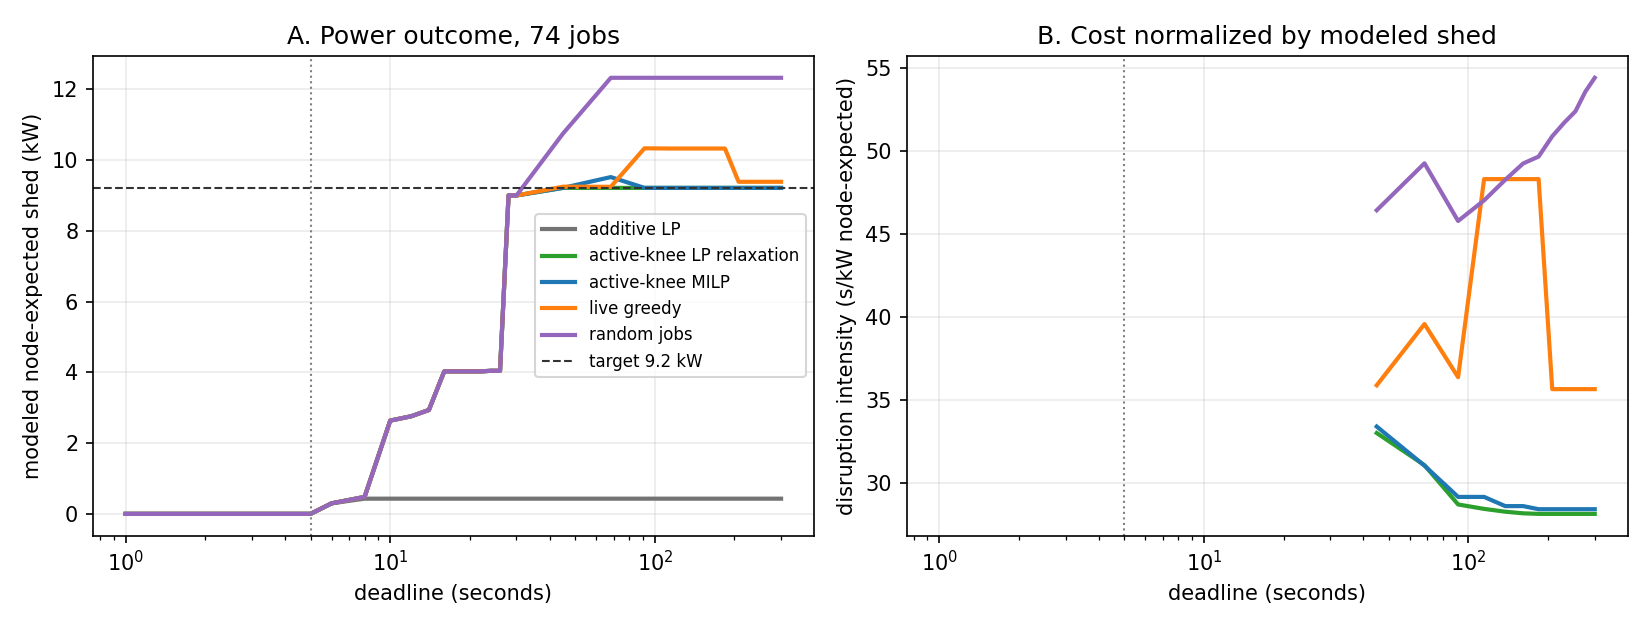
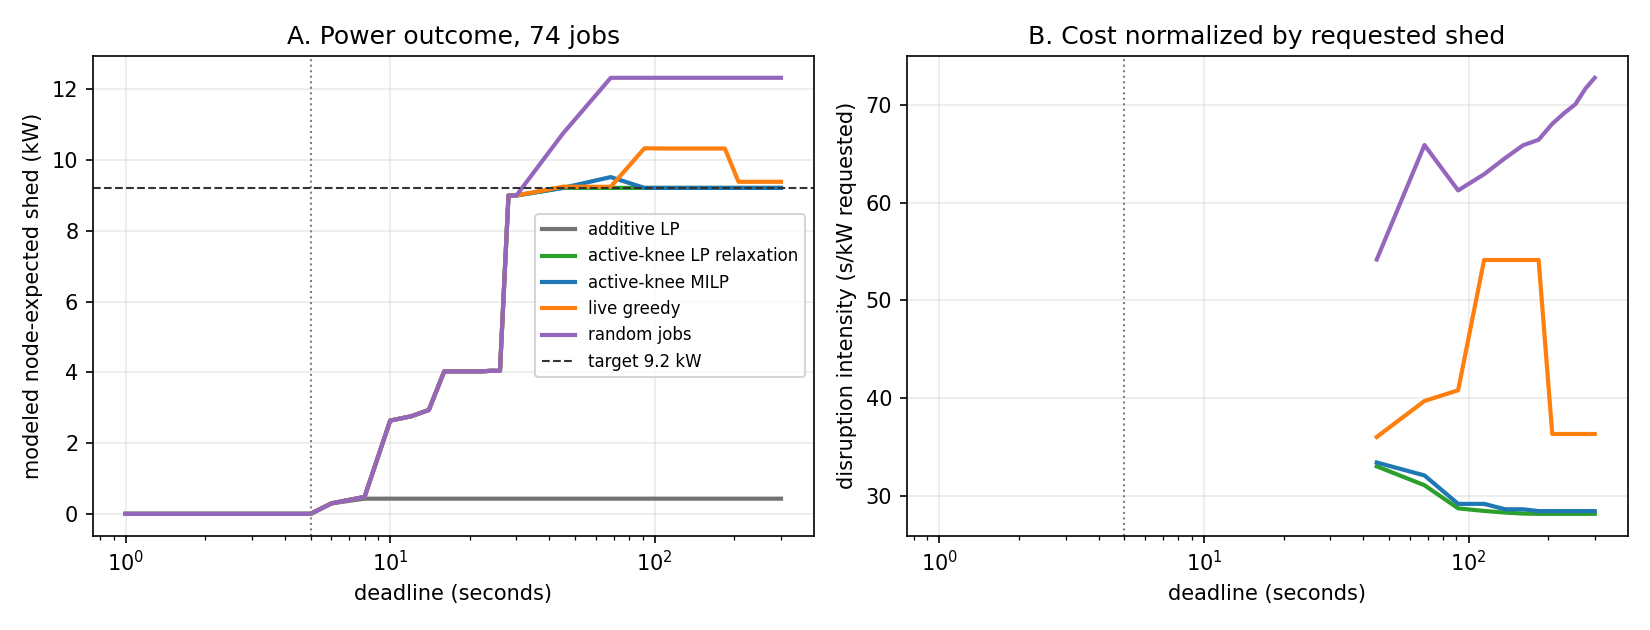
Normalize deadline-sweep intensity by requested shed, not achieved
Dividing cost by achieved kW credited overshoot: random moves ~all jobs, its
whole-job stopping rule lands a ~3.5 kW knee chunk past the target, and the
achieved-kW divisor flattered it by that 33%. Panel B now uses cost per
REQUESTED kW (the target sweep's requested_intensity convention), which
restores the ~2x random-vs-MILP disruption gap the achieved basis was hiding.

diff --git a/agent-migrate/queue-haul/plot_node_knee_deadline_sweep.py b/agent-migrate/queue-haul/plot_node_knee_deadline_sweep.py
@@ -92,7 +92,9 @@ def main():
         node = np.array([r["node_kw"] for r in rs])
         cost = np.array([r["cost_s"] for r in rs], float)
         ax1.plot(D, node, lw=2, label=method, color=colors[method])
-        ax2.plot(D, cost / np.maximum(node, 1e-12), lw=2, label=method, color=colors[method])
+        # normalize by the REQUESTED shed: dividing by achieved kW would credit overshoot
+        # (random moves ~all jobs and lands a huge final knee chunk past the target)
+        ax2.plot(D, cost / target_kw, lw=2, label=method, color=colors[method])
     for ax in (ax1, ax2):
         ax.set_xscale("log")
         ax.axvline(STARTUP, color="0.5", ls=":", lw=1)
@@ -100,7 +102,7 @@ def main():
         ax.set_xlabel("deadline (seconds)")
     ax1.axhline(target_kw, color="0.2", ls="--", lw=1, label=f"target {target_kw:.1f} kW")
     ax1.set(ylabel="modeled node-expected shed (kW)", title=f"A. Power outcome, {len(pop)} jobs")
-    ax2.set(ylabel="disruption intensity (s/kW node-expected)", title="B. Cost normalized by modeled shed")
+    ax2.set(ylabel="disruption intensity (s/kW requested)", title="B. Cost normalized by requested shed")
     ax1.legend(fontsize=8)
     fig.tight_layout()
     os.makedirs("outputs", exist_ok=True)
@@ -114,7 +116,7 @@ def main():
         hit = [r for r in rs if r["hit"]]
         first = min((r["deadline"] for r in hit), default=np.nan)
         best = max(r["node_kw"] for r in rs)
-        min_intensity = min((r["cost_s"] / r["node_kw"] for r in hit), default=np.nan)
+        min_intensity = min((r["cost_s"] / target_kw for r in hit), default=np.nan)
         print(f"{method:17s} first_hit_D={first:6.1f}s  max_node={best:6.1f} kW  min_intensity={min_intensity:7.1f}s/kW")
 
 
